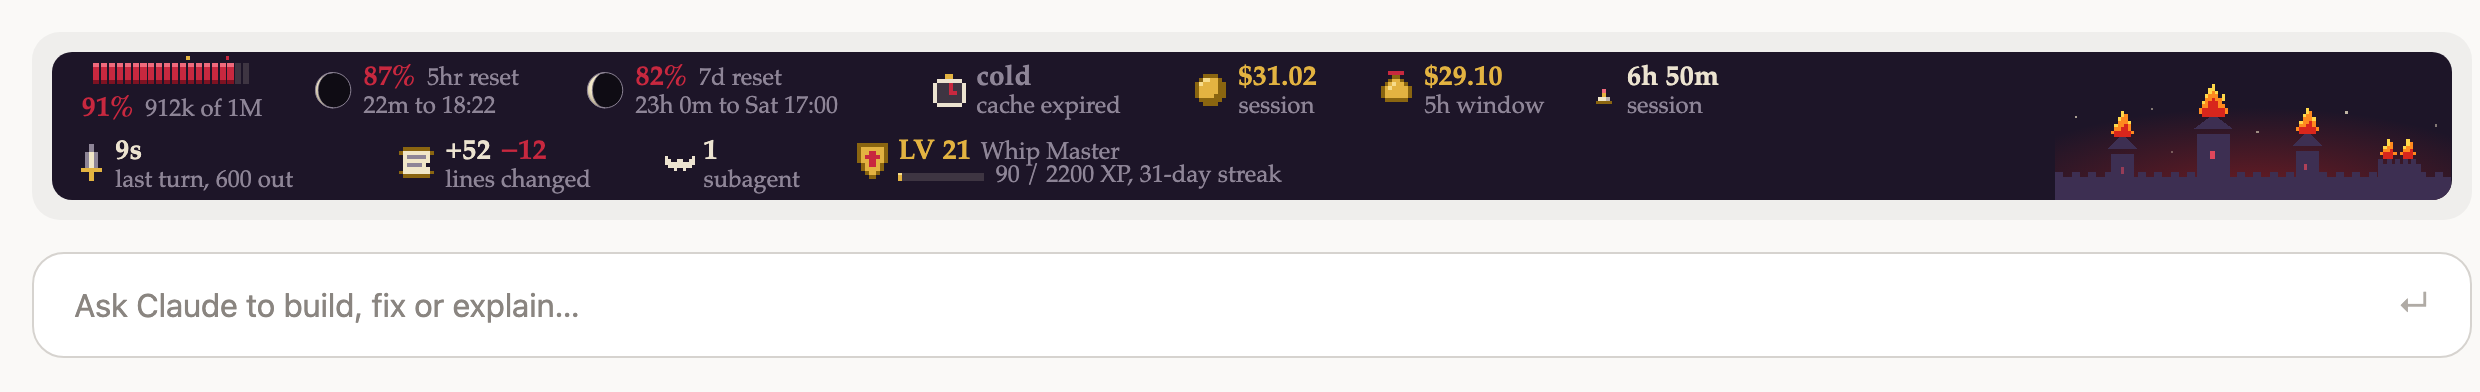
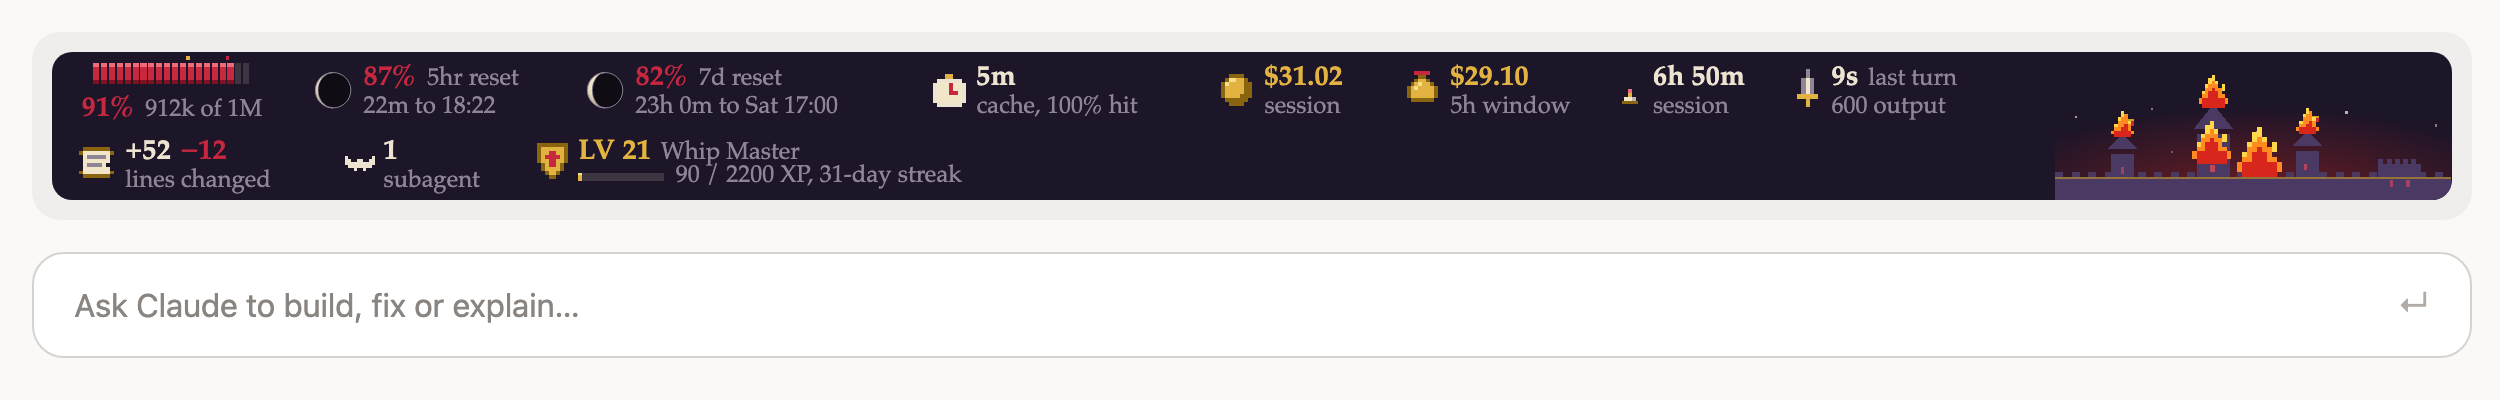
Castle burns with the cache, grows with the context (0.9.0)
- Fire follows the share of the prompt cache's life left: small at 40%,
  medium at 20%, big at 10%; out once the cache expires or a reply refreshes it
- The castle's tier follows the context: banners at 40%, trim and spire at 60%,
  crest and glow at 80%. Compactions are still counted for /castle only
- New screenshots for the fire and the tiers

diff --git a/hooks/svg.ts b/hooks/svg.ts
@@ -324,9 +324,18 @@ const FLAMES: Record<'small' | 'medium' | 'big', string[]> = {
 }
 const FIRE = { Y: '#ffd84a', O: '#ff8a1f', R: '#d8261c' }
 
-/** How much of the castle burns: none under 70% context, then small, medium and big fires. */
-export function fireLevel(percent: number): 'none' | 'small' | 'medium' | 'big' {
-  return percent >= 90 ? 'big' : percent >= 80 ? 'medium' : percent >= 70 ? 'small' : 'none'
+/**
+ * How much of the castle burns, from the share of the prompt cache's life left (0 to 1; null with no warm cache):
+ * a small fire at 40% left, a medium one at 20%, a big one at 10%. Reply before it burns down.
+ */
+export function fireLevel(cacheLeft: number | null): 'none' | 'small' | 'medium' | 'big' {
+  if (cacheLeft === null || cacheLeft <= 0) return 'none'
+  return cacheLeft <= 0.1 ? 'big' : cacheLeft <= 0.2 ? 'medium' : cacheLeft <= 0.4 ? 'small' : 'none'
+}
+
+/** The castle's tier from the context: 1 below 40%, then 2 at 40%, 3 at 60% and 4 at 80%. */
+export function tierFor(percent: number): number {
+  return percent >= 80 ? 4 : percent >= 60 ? 3 : percent >= 40 ? 2 : 1
 }
 
 /** A flickering flame, its base centered at (cx, baseY): two frames, the second mirrored. */
@@ -340,23 +349,23 @@ function flame(size: 'small' | 'medium' | 'big', cx: number, baseY: number, dela
   return `<g class="fa" ${style}>${sprite(rows, FIRE, x, y, px)}</g><g class="fb" ${style}>${sprite(mirrored, FIRE, x, y, px)}</g>`
 }
 
-/** The castle's tiers: each compaction raises it one, up to five. */
-export const MAX_TIER = 5
+/** The castle's tiers, one per stage of the context. */
+export const MAX_TIER = 4
 
 /**
  * The castle on the right edge of the band: three towers and the keep, lit windows, a few stars. It grows
- * bolder with its tier (banners at 2; more lit windows and a gold trim at 3; a taller main spire at 4; a gold
- * crest, brighter stone and a soft glow at 5) and burns as the context fills.
+ * bolder as the context fills (banners at 40%; more lit windows, a gold trim and a taller main spire at 60%; a
+ * gold crest, brighter stone and a soft glow at 80%) and burns as the prompt cache runs down.
  */
-export function castleSvg(percent = 0, tier = 4): { source: string; alt: string; width: number; height: number } {
+export function castleSvg(percent = 0, cacheLeft: number | null = null): { source: string; alt: string; width: number; height: number } {
   const DY = 20 // room above the towers for the flames
-  const t = Math.max(1, Math.min(MAX_TIER, Math.round(tier)))
+  const t = tierFor(percent)
   const has = (from: number) => t >= from
   // The tier each embellishment appears at.
   const BANNERS = 2
   const TRIM = 3
-  const SPIRE = 4
-  const CREST = 5
+  const SPIRE = 3
+  const CREST = 4
   const stone = has(CREST) ? '#4a3a63' : '#3d2f52'
   const mainTip = has(SPIRE) ? -6 : 0
   const towers: [number, number, number, number][] = [
@@ -384,9 +393,9 @@ export function castleSvg(percent = 0, tier = 4): { source: string; alt: string;
   const trim = has(TRIM) ? `<rect x="0" y="38" width="240" height="1" fill="#d4a017" opacity=".55"/>` : ''
   const crest = has(CREST) ? `<polygon points="96,${mainTip - 8} 99,${mainTip - 4} 96,${mainTip} 93,${mainTip - 4}" fill="#d4a017"/><rect x="95" y="${mainTip - 6}" width="2" height="4" fill="#fff3c4"/>` : ''
 
-  const fire = fireLevel(percent)
-  // The windows turn from candle-gold to red once half the context is used, before any fire.
-  const lit = percent >= 50 ? '#e0475b' : '#e3b341'
+  const fire = fireLevel(cacheLeft)
+  // The windows glow red while the castle burns, candle-gold otherwise.
+  const lit = fire !== 'none' ? '#e0475b' : '#e3b341'
   const windows =
     `<rect x="94" y="22" width="3" height="5" fill="${lit}"/>` +
     `<rect x="40" y="32" width="2" height="4" fill="${lit}" opacity=".55"/>` +
@@ -395,10 +404,10 @@ export function castleSvg(percent = 0, tier = 4): { source: string; alt: string;
 
   // Flames sit on the spire tips; lower down, fire breaks out of the windows and along the wall.
   const main = 86 + 10
-  const left = 34 + 7
+  const leftTower = 34 + 7
   const right = 146 + 7
   const roof = mainTip + 2
-  const side = (size: 'small' | 'medium' | 'big', delay: number) => flame(size, left, 14, delay) + flame(size, right, 12, delay + 0.1)
+  const side = (size: 'small' | 'medium' | 'big', delay: number) => flame(size, leftTower, 14, delay) + flame(size, right, 12, delay + 0.1)
   const windowFire = (delay: number) => flame('small', 95, 27, delay) + flame('small', 41, 36, delay + 0.07) + flame('small', 152, 34, delay + 0.13)
   const flames =
     fire === 'small' ? flame('small', main, roof, 0) + flame('small', 95, 27, 0.1)
@@ -414,7 +423,8 @@ export function castleSvg(percent = 0, tier = 4): { source: string; alt: string;
   const style = `<style>.fa{animation:fa .3s steps(1) infinite}.fb{opacity:0;animation:fb .3s steps(1) infinite}@keyframes fa{0%,49.9%{opacity:1}50%,100%{opacity:0}}@keyframes fb{0%,49.9%{opacity:0}50%,100%{opacity:1}}@media (prefers-reduced-motion:reduce){.fa{animation:none}.fb{animation:none;opacity:0}}rect{shape-rendering:crispEdges}</style>`
   const H = 60 + DY
   const source = `<svg xmlns="http://www.w3.org/2000/svg" width="${Math.round(240 * CASTLE_SCALE)}" height="${Math.round(H * CASTLE_SCALE)}" viewBox="0 0 240 ${H}">${style}${glow}${stars}<g transform="translate(0 ${DY + 8})"><g fill="${stone}" shape-rendering="crispEdges">${wall}${shapes}</g>${trim}${banners}${crest}${windows}${flames}</g></svg>`
-  const alt = `Castle, tier ${t} of ${MAX_TIER}` + (fire === 'none' ? '' : `, on fire (${fire}): context at ${percent}%`)
+  const left = cacheLeft === null ? 0 : Math.round(cacheLeft * 100)
+  const alt = `Castle, tier ${t} of ${MAX_TIER} at ${percent}% context` + (fire === 'none' ? '' : `, on fire (${fire}): ${left}% of the cache left`)
 
   return { source, alt, width: Math.round(240 * CASTLE_SCALE), height: Math.round(H * CASTLE_SCALE) }
 }

diff --git a/hooks/hud.test.ts b/hooks/hud.test.ts
@@ -1,7 +1,7 @@
 import { expect, test } from 'claude-code/testing'
 
 import { editLines, cacheHit, duration, elapsed, linesFromPatch, linesOf, legacyEntries, nextCache, spendKey, spendTime, k, moonLight, spentSince, timeLeftShort, wasWarm } from './hud'
-import { buildSvg, castleSvg, fireLevel, moonPath, zone } from './svg'
+import { buildSvg, castleSvg, fireLevel, moonPath, tierFor, zone } from './svg'
 
 const now = Date.parse('2026-10-09T10:00:00Z')
 
@@ -103,20 +103,21 @@ test('the cache follows real cache activity and stays warm for an hour', () => {
   expect(wasWarm(short, now + 30 * 60e3)).toBe(false)
 })
 
-test('castle burns as the context fills', () => {
-  expect(fireLevel(69)).toBe('none')
-  expect(fireLevel(70)).toBe('small')
-  expect(fireLevel(85)).toBe('medium')
-  expect(fireLevel(90)).toBe('big')
-  expect(castleSvg(49).source).toContain('#e3b341')
-  expect(castleSvg(50).source).not.toContain('#e3b341')
-  expect(castleSvg(50).source).toContain('#e0475b')
-  expect(castleSvg(50).source).not.toContain('class="fa"')
-  expect(castleSvg(72).source.match(/class="fa"/g)?.length).toBe(2) // the roof and the main window
-  expect(castleSvg(72).source).toContain('#e0475b')
-  expect(castleSvg(83).source.match(/class="fa"/g)?.length).toBe(8) // roofs, windows and the wall
-  expect(castleSvg(95).source.match(/class="fa"/g)?.length).toBe(5) // fewer, bigger fires
-  expect(castleSvg(95).source).toContain('blaze')
+test('castle burns as the prompt cache runs down', () => {
+  expect(fireLevel(null)).toBe('none')
+  expect(fireLevel(0.5)).toBe('none')
+  expect(fireLevel(0.4)).toBe('small')
+  expect(fireLevel(0.2)).toBe('medium')
+  expect(fireLevel(0.1)).toBe('big')
+  expect(fireLevel(0)).toBe('none') // expired: nothing left to save
+  expect(castleSvg(10, 0.5).source).toContain('#e3b341')
+  expect(castleSvg(10, 0.5).source).not.toContain('class="fa"')
+  expect(castleSvg(10, 0.35).source.match(/class="fa"/g)?.length).toBe(2) // the roof and the main window
+  expect(castleSvg(10, 0.35).source).toContain('#e0475b')
+  expect(castleSvg(10, 0.15).source.match(/class="fa"/g)?.length).toBe(8) // roofs, windows and the wall
+  expect(castleSvg(10, 0.05).source.match(/class="fa"/g)?.length).toBe(5) // fewer, bigger fires
+  expect(castleSvg(10, 0.05).source).toContain('blaze')
+  expect(castleSvg(10, 0.05).alt).toContain('5% of the cache left')
 })
 
 test('spend keys carry their own time', () => {
@@ -137,15 +138,16 @@ test('edits count what really changed', () => {
   expect(editLines('Write', { content: 'x\ny' }, { type: 'create', originalFile: null, structuredPatch: [] })).toEqual({ added: 2, removed: 0 })
 })
 
-test('castle grows bolder with its tier, keeping all its towers', () => {
-  const spires = (t: number) => castleSvg(0, t).source.match(/<polygon points=/g)?.length ?? 0
-  expect(spires(1)).toBe(3) // three spired towers and the keep, at every tier
-  expect(castleSvg(0, 1).source).not.toContain('#c8283f')
-  expect(castleSvg(0, 2).source).toContain('#c8283f') // banners
-  expect(castleSvg(0, 3).source).toContain('opacity=".55"/>') // gold trim
-  expect(castleSvg(0, 4).source).toContain('96,-6') // taller main spire
-  expect(spires(5)).toBe(4) // and the crest
-  expect(castleSvg(0, 9).alt).toContain('tier 5 of 5')
+test('castle grows bolder as the context fills, keeping all its towers', () => {
+  expect([tierFor(0), tierFor(39), tierFor(40), tierFor(60), tierFor(80), tierFor(100)]).toEqual([1, 1, 2, 3, 4, 4])
+  const spires = (p: number) => castleSvg(p).source.match(/<polygon points=/g)?.length ?? 0
+  expect(spires(0)).toBe(3) // three towers from the start
+  expect(castleSvg(0).source).not.toContain('#c8283f')
+  expect(castleSvg(40).source).toContain('#c8283f') // banners
+  expect(castleSvg(60).source).toContain('opacity=".55"/>') // gold trim
+  expect(castleSvg(60).source).toContain('96,-6') // taller main spire
+  expect(spires(80)).toBe(4) // and the crest
+  expect(castleSvg(80).alt).toContain('tier 4 of 4')
 })
 
 test('a subscription shows the moons and no costs; the API, the other way round', () => {

diff --git a/hooks/register.tsx b/hooks/register.tsx
@@ -396,7 +396,7 @@ async function deriveProfile($: EngineInterface, everyone = false): Promise<Stat
   for (const s of others.values()) all = addStats(all, s)
   const p = profileOf(all, dayKey(now))
   const was = await read($, profile)
-  const changed = !was || was.xp !== p.xp || was.streak !== p.streak || was.unlocked.length !== p.unlocked.length || was.castleTier !== p.castleTier
+  const changed = !was || was.xp !== p.xp || was.streak !== p.streak || was.unlocked.length !== p.unlocked.length
   if (changed) await update($, profile, () => p)
 
   const seen = known
@@ -651,21 +651,15 @@ export const register: Register = on => {
     return result
   }).catch(($, e, next) => next(e))
 
-  // A compaction (the person's /compact, or Claude Code's own at its limit) rebuilds the castle a tier, up to five.
-  // A `precompute` only prepares one ahead of time, and a skipped compaction changes nothing: neither counts.
+  // A compaction (the person's /compact, or Claude Code's own at its limit) is counted for /castle, and shows the
+  // smaller context at once. A `precompute` only prepares one ahead of time, and a skipped one changes nothing.
   on('session.compact', async ($, e, next) => {
     const result = await next(e)
-    // Only the main conversation's compaction: a subagent's (`e.agentId`) changes neither its context nor the castle.
+    // Only the main conversation's compaction: a subagent's (`e.agentId`) doesn't change its context.
     if (!e.agentId && e.trigger !== 'precompute' && result.skip === undefined) {
       mine = { ...mine, compacts: (mine.compacts ?? 0) + 1 }
       dirty = true
-      // The tier from every session's records, read fresh, not from a profile that may be minutes old.
-      void syncProfile($, true)
-        .then(all => {
-          const n = all.compacts ?? 0
-          if (n >= 1 && n <= 4) $.ui.toast(`Castle rebuilt to tier ${n + 1} of 5`)
-        })
-        .catch(() => undefined)
+      void syncProfile($).catch(() => undefined)
       // The conversation the cache held is gone: the next reply writes a new one.
       await update($, cache, () => null)
       convDirty = true
@@ -742,7 +736,7 @@ export const register: Register = on => {
     if (arg === 'reset')
       return {
         text: [
-          'This deletes everything castle-hud saved: your XP, level, streak, achievements, castle tier and the 5-hour spending.',
+          'This deletes everything castle-hud saved: your XP, level, streak, achievements, compaction count and the 5-hour spending.',
           'Close your other Claude Code sessions first, or they save their own XP again.',
           'To go ahead, type: /castle reset confirm',
         ].join('\n'),
@@ -849,7 +843,9 @@ export const register: Register = on => {
 
     const { Box, Svg } = $.ui.resolve(e)
     const svg = buildSvg({ usage: u, cache: c, bats, now, prevPercent: shownPercent, mode: 'dark', windowUsd: spent ?? undefined, lastTurn: turn, lines: changed, startedAt: began || undefined, profile: prof, plan: paying })
-    const castle = castleSvg(pct, prof?.castleTier ?? 1)
+    // The share of the prompt cache's life left, which the fire follows; none without a warm cache.
+    const cacheLeft = c ? (c.at + (c.ttlMs ?? CACHE_TTL_MS) - now) / (c.ttlMs ?? CACHE_TTL_MS) : null
+    const castle = castleSvg(pct, cacheLeft !== null && cacheLeft > 0 ? cacheLeft : null)
     shownPercent = pct
 
     // Drawn as images, not interactive frames: an image swaps in place on a redraw, a frame reloads and flashes.

diff --git a/hooks/xp.ts b/hooks/xp.ts
@@ -140,7 +140,7 @@ export const ACHIEVEMENTS: Achievement[] = [
   { id: 'lord', name: 'Lord of the Castle', how: 'Reach level 50', met: (_s, level) => level >= 50 },
 ]
 
-export type Profile = Level & { xp: number; streak: number; unlocked: string[]; castleTier: number }
+export type Profile = Level & { xp: number; streak: number; unlocked: string[] }
 
 export function profileOf(s: Stats, today: string): Profile {
   const lv = levelOf(s.xp)
@@ -148,8 +148,7 @@ export function profileOf(s: Stats, today: string): Profile {
   // Achievements read the longest streak ever, so a missed day never takes one back.
   const best = Math.max(streak, longestStreak(s.days))
   const unlocked = ACHIEVEMENTS.filter(a => a.met(s, lv.level, best)).map(a => a.id)
-  // The castle starts at tier 1 and rises one tier per compaction, up to 5.
-  return { ...lv, xp: s.xp, streak, unlocked, castleTier: Math.min(5, 1 + (s.compacts ?? 0)) }
+  return { ...lv, xp: s.xp, streak, unlocked }
 }
 
 // A test runner at the start of a command: `npm test`, `npm t`, `pnpm run test:unit`, `pytest`, `go test`,
@@ -258,7 +257,7 @@ export function report(s: Stats, p: Profile): string {
     row('Subagents finished', `${s.bats}`),
     row('Warm-cache replies', `${s.warm}`),
     row('Turns under 60%', `${s.tidy}`),
-    row('Compactions', `${s.compacts ?? 0} (castle tier ${p.castleTier} of 5)`),
+    row('Compactions', `${s.compacts ?? 0}`),
     '',
     `Achievements (${got.size} of ${ACHIEVEMENTS.length})`,
     ...ACHIEVEMENTS.map(a => `  ${got.has(a.id) ? '✓' : '·'} ${a.name.padEnd(20)}${a.how}`),

diff --git a/hooks/register.test.ts b/hooks/register.test.ts
@@ -342,3 +342,23 @@ test('a subscription shows its moons and hides the costs', async ($, on) => {
   expect(sub).toContain('5h limit')
   expect(sub).not.toContain('Session cost')
 })
+
+test('the castle catches fire as the cache runs down, and goes out when it expires', async ($, on) => {
+  const { clock } = world(on)
+  await $.session.start(start as never)
+  await $.turn.start({ text: 'hi', turnId: 't1' } as never)
+  const usage = { input_tokens: 10, output_tokens: 5, cache_read_input_tokens: 0, cache_creation_input_tokens: 500, model: 'm' }
+  await $.turn.complete({ answer: 'ok', durationMs: 1, isAborted: false, turnId: 't1', reason: 'answer', usage } as never)
+  await clock.advance(20 * 60e3)
+  expect(await band($ as never)).not.toContain('on fire')
+  await clock.advance(10 * 60e3) // 30 minutes left: 50%
+  expect(await band($ as never)).not.toContain('on fire')
+  await clock.advance(10 * 60e3) // 20 minutes left: 33%
+  expect(await band($ as never)).toContain('on fire (small)')
+  await clock.advance(10 * 60e3) // 10 minutes left: 17%
+  expect(await band($ as never)).toContain('on fire (medium)')
+  await clock.advance(5 * 60e3) // 5 minutes left: 8%
+  expect(await band($ as never)).toContain('on fire (big)')
+  await clock.advance(6 * 60e3)
+  expect(await band($ as never)).not.toContain('on fire')
+})

diff --git a/hooks/xp.test.ts b/hooks/xp.test.ts
@@ -37,7 +37,7 @@ test('sessions add up, and achievements follow from the totals', () => {
   expect(p.unlocked).toContain('bat-slayer')
   expect(p.unlocked).not.toContain('devoted')
   expect(report(all, p)).toContain('Achievements (2 of 14)')
-  expect(report(all, p)).toContain('Compactions           0 (castle tier 1 of 5)')
+  expect(report(all, p)).toContain('Compactions           0')
 })
 
 test('test commands are recognised', () => {
@@ -82,10 +82,7 @@ test('streak achievements stay earned after a missed day', () => {
   expect(p.unlocked).toContain('devoted')
 })
 
-test('each compaction raises the castle a tier, up to five', () => {
-  expect(profileOf(emptyStats(), '2026-10-09').castleTier).toBe(1)
-  expect(profileOf({ ...emptyStats(), compacts: 2 }, '2026-10-09').castleTier).toBe(3)
-  expect(profileOf({ ...emptyStats(), compacts: 9 }, '2026-10-09').castleTier).toBe(5)
+test('compactions add up across sessions, older records included', () => {
   const old = { xp: 0, turns: 0, lines: 0, tests: 0, bats: 0, warm: 0, tidy: 0, night: 0, days: [] }
   expect(addStats(old, { ...emptyStats(), compacts: 1 }).compacts).toBe(1)
 })

diff --git a/types/index.d.ts b/types/index.d.ts
@@ -2,7 +2,7 @@ export type Limit = { kind: string; percentUsed: number; resetsAt?: string }
 export type Usage = { usd?: number; tokens?: number; window: number; percent?: number; limits: Limit[] }
 export type LastTurn = { ms: number; out: number }
 export type Lines = { added: number; removed: number }
-export type Profile = { level: number; title: string; into: number; need: number; xp: number; streak: number; unlocked: string[]; castleTier: number }
+export type Profile = { level: number; title: string; into: number; need: number; xp: number; streak: number; unlocked: string[] }
 export type Cache = { read: number; written: number; uncached: number; at: number; ttlMs?: number }
 
 declare module 'claude-code' {

diff --git a/README.md b/README.md
@@ -45,17 +45,17 @@ If the HUD doesn't change after the reload, restart Claude Code. Restart any oth
 | <img src="screenshots/icons/bat.svg" height="22" alt=""> | **Bats** | One flapping bat per subagent running now. |
 | <img src="screenshots/icons/crest.svg" height="22" alt=""> | **Crest** | Your level, title, XP toward the next level and your daily streak. |
 
-### The castle burns
+### The castle burns as the cache runs down
 
-As the context fills, the castle reacts: its windows turn from gold to red at 50%, a small fire starts at 70%, a bigger one at 80%, and the whole castle is ablaze with a red glow at 90%. That's your cue to wrap up or start a fresh session before Claude Code compacts the conversation.
+The fire follows the prompt cache. A small fire starts when 40% of the cache's life is left, a bigger one at 20%, and at 10% the whole castle is ablaze with a red glow, its windows red. That's your cue to reply while the cache is still warm. Once the cache has expired the fire goes out: there's nothing left to save. A fresh reply puts it out too.
 
-![The castle at 40%, 55%, 75% and 92% context](screenshots/fire.png)
+![The castle with 60%, 35%, 15% and 5% of the cache left](screenshots/fire.png)
 
-### Build up the castle
+### The castle grows as the context fills
 
-Every compaction raises the castle one tier, up to five: your own `/compact`, or the one Claude Code runs itself when the context is full. The fire burns as the context fills, and compacting puts the fire out and rebuilds the castle bigger. The castle always has its three towers and the keep, and grows bolder with each tier: banners at tier 2, more lit windows and a gold trim at 3, a taller main spire at 4, and at tier 5 a gold crest, brighter stone and a soft golden glow. The tier is kept across sessions.
+The castle always has its three towers and the keep, and grows bolder as the context fills: banners at 40%, more lit windows, a gold trim and a taller main spire at 60%, and at 80% a gold crest, brighter stone and a soft golden glow. A compaction shrinks the context, so the castle steps back down with it.
 
-![The castle at tiers 1 to 5](screenshots/tiers.png)
+![The castle at 20%, 40%, 60% and 80% context](screenshots/tiers.png)
 
 ![A session near its limits](screenshots/danger-narrow.png)
 
@@ -97,7 +97,7 @@ The mod only reads what Claude Code reports. It never blocks, changes or rewrite
 | `session.start` | Reads the session's usage, registers `/castle` and starts a 15-second refresh |
 | `session.end` | Saves this conversation's figures and your XP, and adds the XP to the saved total |
 | `turn.start` | Notes when a turn starts, to tell whether it found the cache warm |
-| `session.compact` | After a compaction finishes, raises the castle a tier and shows the smaller context. The compaction itself is unchanged |
+| `session.compact` | After a compaction finishes, counts it and shows the smaller context. The compaction itself is unchanged |
 | `classic.SessionStart` | When a cleared, resumed, forked or compacted conversation starts, reads its starting cost and context. A cleared or forked one starts its figures at zero; a resumed one gets its saved figures back |
 | `classic.PostModelSwitch` | After `/model`, starts the cache stopwatch again and notes how long the new cache lasts |
 | `session.measure` | Reads the context, rate limits and cost after each turn |

diff --git a/CHANGELOG.md b/CHANGELOG.md
@@ -1,5 +1,10 @@
 # Changelog
 
+## 0.9.0
+
+- The castle burns as the prompt cache runs down: a small fire at 40% of its life left, medium at 20%, big at 10%. It goes out when the cache expires or a reply refreshes it.
+- The castle grows as the context fills: banners at 40%, gold trim and a taller spire at 60%, crest and glow at 80%. Compactions are still counted in `/castle`, but no longer change the castle.
+
 ## 0.8.0
 
 - The band fits how you pay. On a Claude subscription it shows the rate-limit moons and hides the session and 5-hour costs. With an API key or a third-party provider it shows the costs and hides the moons.
